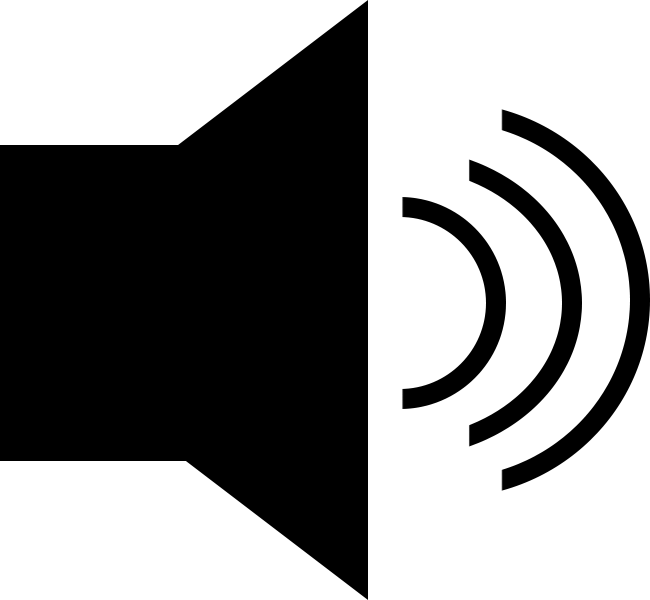
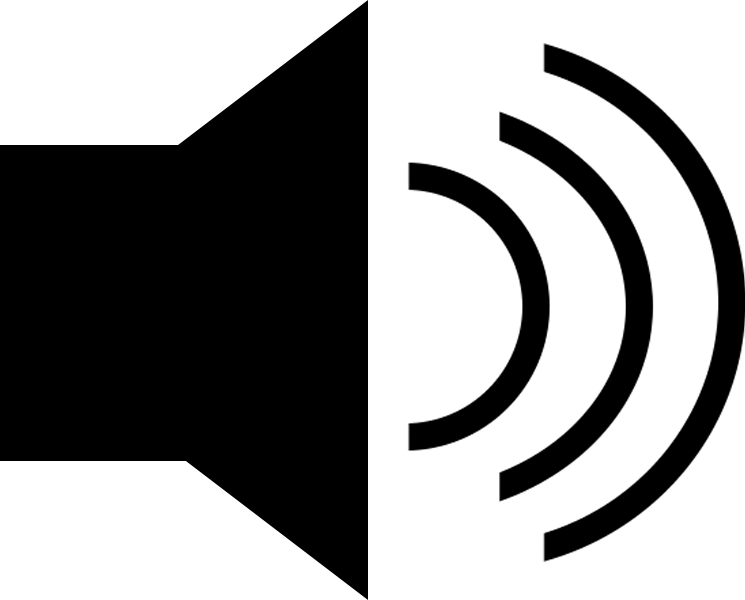
1.0.1

Changed region(s): [[0.2462, 0.0, 0.8, 1.0], [0.6462, 0.06, 1.0, 0.93]]

diff --git a/discord-xbox-party.theme.css b/discord-xbox-party.theme.css
@@ -2,13 +2,14 @@
  * @name         Discord with Xbox Live Party icons
  * @description  legit just the icons by ppl's thing in the vc
  * @author       @ktg5
- * @version      1.0
+ * @version      1.0.1
  * @website      https://github.com/ktg5/discord-xbox-party-theme
  * @source       https://github.com/ktg5/discord-xbox-party-theme/discord-xbox-party.theme.css
  * @authorId     184070212012736512
- */
+*/
 
- .userAvatar-3Hwf1F.avatar-3FKimL.avatarSmall-3qwAkA {
+
+.userAvatar-3Hwf1F.avatar-3FKimL.avatarSmall-3qwAkA {
     margin-left: 45px;
 }
 
@@ -22,20 +23,21 @@
     height: 30px;
     display: block;
     margin-left: 20px;
-    margin-top: 6px;
+    margin-top: 5.5px;
     position: absolute;
     top:0px;
     left:0px;
     z-index: -1;
-    display: block;
 }
 
 .avatarSpeaking-2pCGrZ::before {
     background: url('https://raw.githubusercontent.com/ktg5/discord-xbox-party-theme/main/img/live-active-i.png');
     background-repeat: no-repeat;
-    background-size: 19px;
+    background-size: 21px;
     opacity: 1;
-    margin-left: 17px;
+    margin-left: 18px;
+    margin-top: 6.5px;
+    margin-bottom: .5px;
 }
 
 .list-2x9Cl9.list-2kKmFw.listDefault-2F-w65 {
